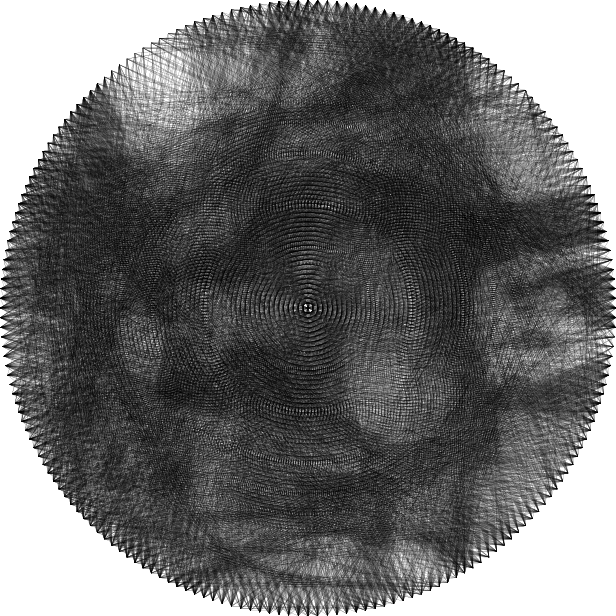
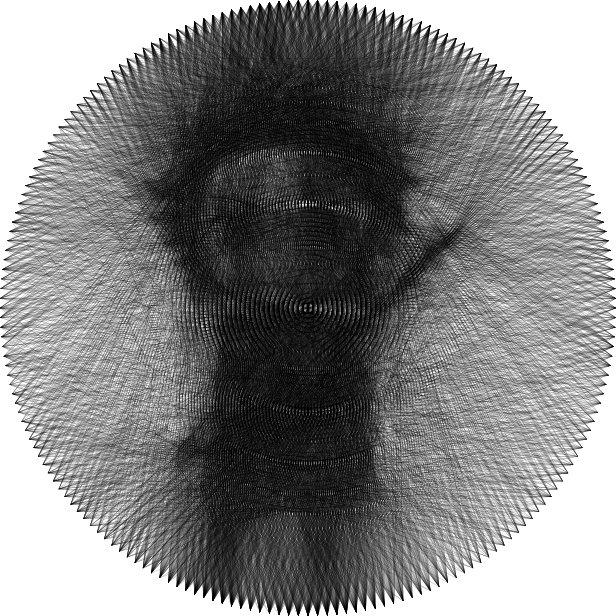
added arduino control

diff --git a/robot-control/step-control.py b/robot-control/step-control.py
@@ -1,0 +1,12 @@
+import time as tm
+import serial
+
+Baudrate = 115200
+ser = serial.Serial("com6", Baudrate, timeout=5)
+tm.sleep(2)  # Wait for com
+print("Ready for printing to serial\n")
+ser.flush()
+while (msg == 0):
+    ser.write((input()+"\n").encode('utf-8'))
+    tm.sleep(1)
+    msg = 1

diff --git a/stringart/__main__.py b/stringart/__main__.py
@@ -17,7 +17,7 @@ if __name__ == '__main__':
     generator.preprocess()
     generator.set_nails(200)
     generator.set_seed(0)
-    generator.set_iterations(5000)
+    generator.set_iterations(4000)
     pattern = generator.generate(outfile)
 
     lines_x = []
